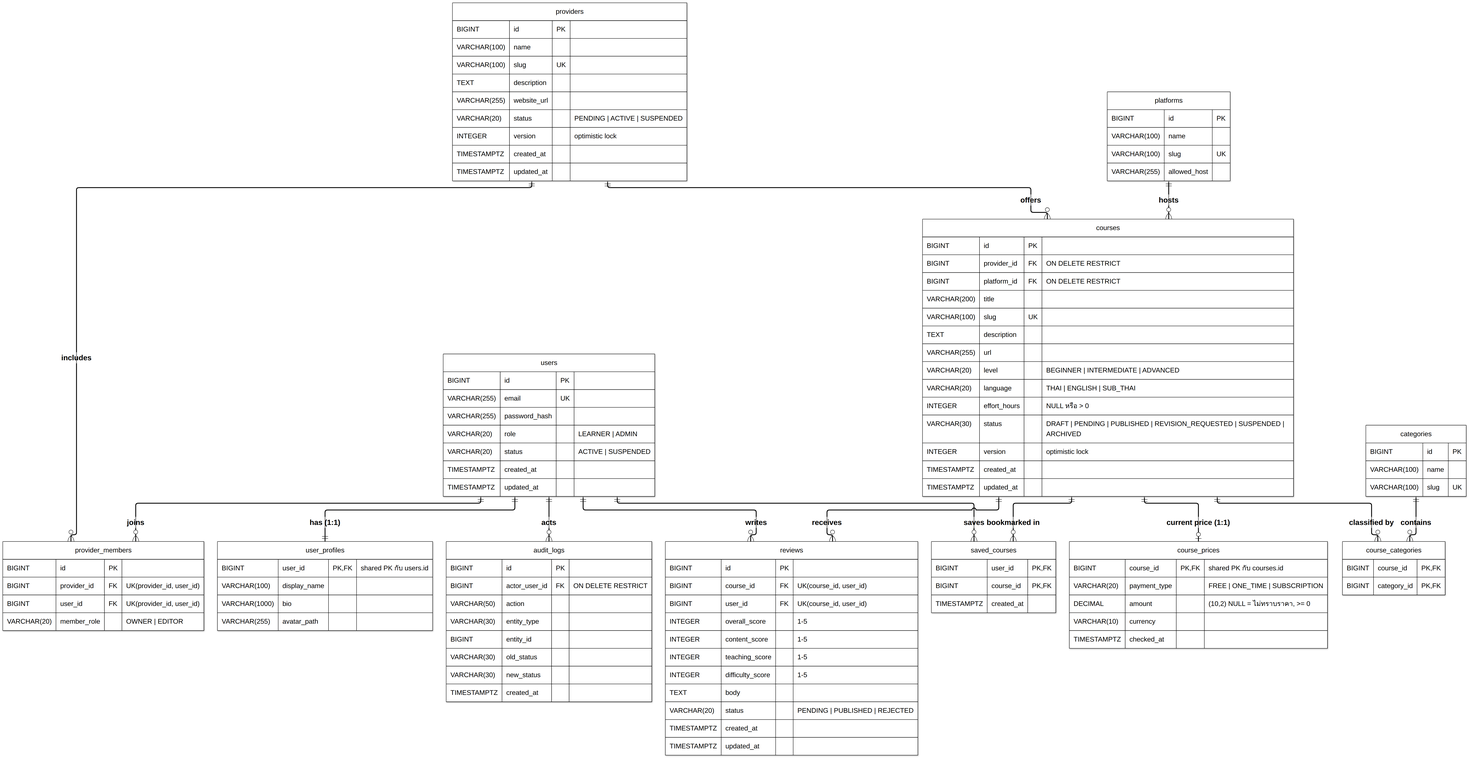
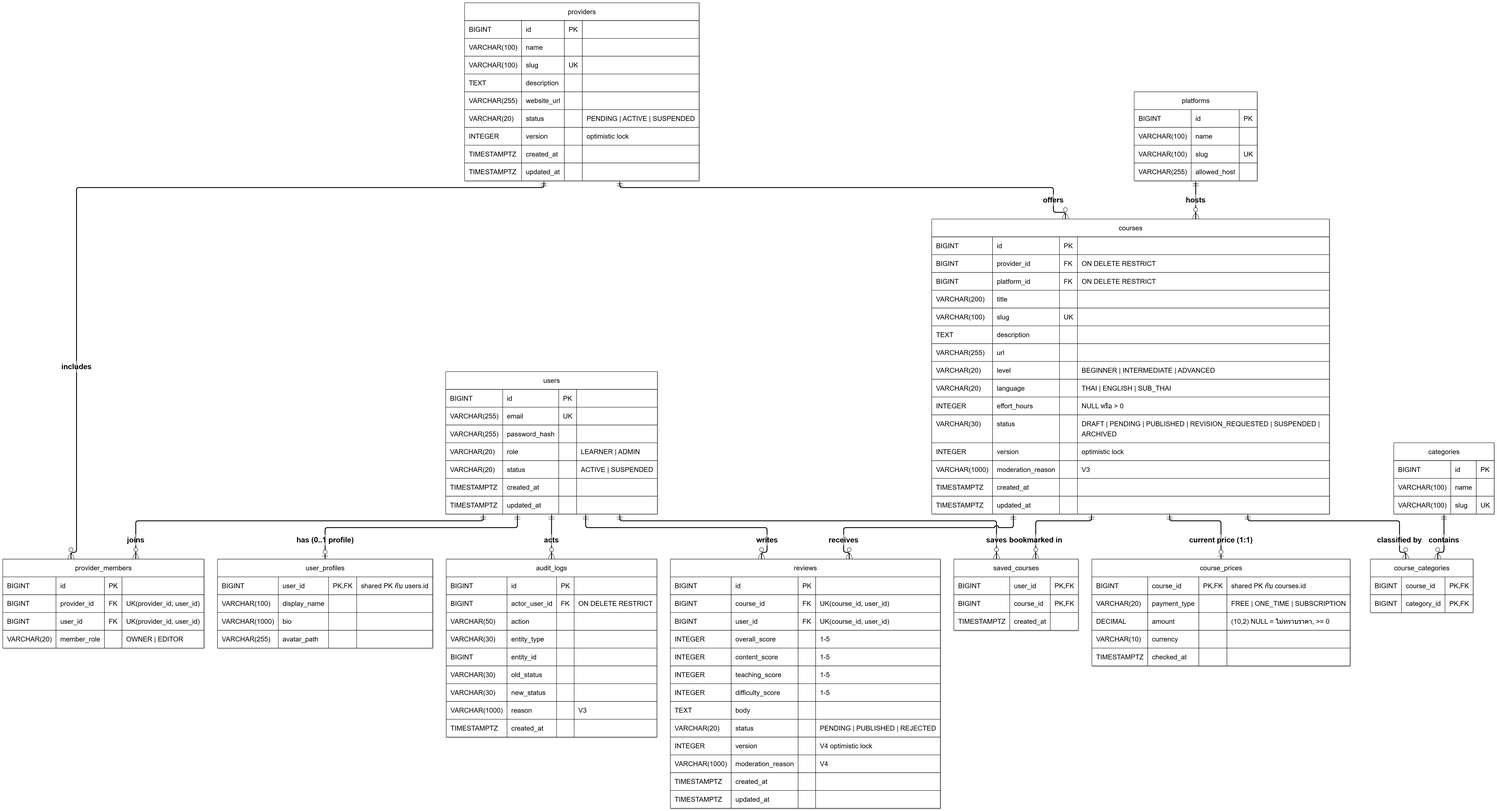
feat(task21): สรุป SOLID และ diagrams ภาพรวมระบบ

diff --git a/doc/requirements.md b/doc/requirements.md
@@ -2,8 +2,8 @@
 
 ตารางนี้แมปข้อกำหนดจากใบงาน CP353002 และ use case ของระบบ เข้ากับ feature, task ในตารางงานทีม, หลักฐานใน repository และเกณฑ์ตรวจรับ
 
-- สถานะอ้างอิง branch `develop` และงานใน branch `keattisak_6733800729_01` ณ วันที่ 5 ตุลาคม 2026
-- อัปเดตหลักฐาน Matcher/GoF วันที่ 6 ตุลาคม 2026 จาก branch `supawat_6733800622_01`: Task 19 backend มีแล้วและรอรวมเข้า develop; Task 20 frontend ยังไม่ทำ
+- สถานะ Task 21 และรายการที่ปรับด้านล่างอ้างอิง branch `sorawit_6733800648_01` ณ วันที่ 8 ตุลาคม 2026; แถวอื่นที่ไม่ได้แก้ยังเป็นบันทึกเดิมจาก branch ก่อนหน้า
+- Matcher backend และ frontend quiz/results มี implementation บน branch นี้ (`CourseMatcherController`, `MatcherPage`, `test/frontend/matcher-flow.test.tsx`)
 - เลข Task ตรงกับตาราง "งานทีม CourseHub • 30 งาน"
 - สถานะ: ✅ มีหลักฐานใน repo แล้ว · 🟡 ทำแล้วบางส่วน · ⬜ ยังไม่เริ่ม
 - ต้องอัปเดตสถานะทุกครั้งที่งานที่เกี่ยวข้อง merge เข้า `develop`
@@ -20,14 +20,14 @@
 | 2 | JUnit 5 + Mockito (+ Spring Boot Test) | ทุก task | `test/backend/unit`, `test/backend/integration` | เทสต์ผ่านใน CI | 🟡 มี JUnit/Spring Boot Test/MockMvc/Testcontainers; Mockito unit test มีใน Course (`CourseServiceImplMockitoTests`) ส่วน feature อื่นยังไม่มี |
 | 2, 11 | Deploy บน Cloud | 07, 23, 25 | Backend: `https://coursehub-backend-ahz2.onrender.com` (Render, Docker) + PostgreSQL บน Neon; Flyway V1–V2 migrate สำเร็จ, `GET /api/v1/system/liveness` ตอบ 200 | public URL ใช้งานได้วันนำเสนอ | 🟡 backend และ DB ใช้งานได้แล้ว ยังไม่มี frontend บน Vercel และยังไม่มี URL ใน README |
 | 3 | Layered Architecture ห้ามข้าม layer | 03 | Controller → Service → Repository ในทุก feature, `doc/decisions/0001-*.md` | ไม่มี Controller เรียก Repository ตรง | ✅ |
-| 4 | SOLID พร้อม `doc/solid-analysis.md` | 21 | ตัวอย่างใน Provider/Course: D — Controller ขึ้นกับ interface `ProviderService`, `CourseQueryService`, `CourseCommandService`; I — แยก Query/Command ของ Course; S — แยก `CourseUrlPolicy`, `CourseMapper`, `ProviderMapper` ออกจาก service | ระบุไฟล์/บรรทัด/เหตุผลครบ 5 ข้อ | 🟡 มีหลักฐานในโค้ดบางส่วน ยังไม่มีเอกสาร |
+| 4 | SOLID พร้อม `doc/solid-analysis.md` | 21 | `doc/solid-analysis.md` อ้าง source/test รายบรรทัดครบ S/O/L/I/D และ contract ของ `ScoringStrategy` | ระบุไฟล์/บรรทัด/เหตุผลครบ 5 ข้อ | ✅ เอกสารและ unit tests ที่เกี่ยวข้องมีหลักฐาน |
 | 5.1 | Layered, MVC, Repository, Service Layer, DTO + Mapper, DI | 03, 21 | `doc/decisions/0001-*.md`, DTO ใน `*/dto/`, Mapper (`CourseMapper`, `ProviderMapper`, `ProfileMapper`), constructor injection | อธิบายใน `doc/design-patterns.md` | 🟡 มีในโค้ด ยังไม่มีเอกสารรวม |
 | 5.2 | GoF กลุ่มเดียว ≥ 3 แบบ (Behavioral: Strategy, State, Observer) | 15, 17, 19 | `doc/design-patterns.md`, `doc/decisions/0003-*.md`, class diagrams และรายงาน Task 15/17/19 | implementation + tests + class diagram | 🟡 ครบหลักฐานใน branch supawat; Task 17/19 รอรวมเข้า develop |
 | 6 | ≥ 6 ตาราง | 06 | `V1__init_schema.sql` (12 ตาราง) | `FlywayMigrationIntegrationTests` | ✅ |
 | 6 | One-to-One | 05, 06 | `users`–`user_profiles`, `courses`–`course_prices` (shared PK) | constraint ทดสอบบน PostgreSQL | ✅ `CourseSchemaPostgresIntegrationTests` |
 | 6 | One-to-Many / Many-to-Many | 06 | `providers`→`courses`, `course_categories` | FK และ cascade ตรงตามออกแบบ | ✅ |
 | 6 | FK, index, cascade/fetch มีเหตุผล | 06 | FK/CHECK/index ใน V1, `@ManyToOne(fetch = LAZY)` | ลบ Provider ที่มีคอร์สไม่ได้, ลบคอร์สแล้ว price/category link หาย | ✅ `CourseSchemaPostgresIntegrationTests` |
-| 6 | ER Diagram + Data Dictionary | 06, 21 | `doc/diagrams/er-diagram.mmd`, `er-diagram.png` | ตรงกับ V1 ทุกตาราง | 🟡 ER ตรงกับ V1 แล้ว Data Dictionary อยู่ใน Task 21 |
+| 6 | ER Diagram + Data Dictionary | 06, 21 | `doc/diagrams/er-diagram.mmd`, `er-diagram.png`, `doc/data-dictionary.md` ตรวจ 12 ตารางกับ Flyway V1–V4 | ตรงกับ migration ทุกตาราง/คอลัมน์ | ✅ เอกสารเทียบ SQL และ render แล้ว; PostgreSQL integration ยังต้องมี Docker |
 | 6 | Migration script | 06 | Flyway `V1__init_schema.sql`, `V2__seed_initial_data.sql` | migrate ฐานข้อมูลว่างได้ | ✅ |
 | 7 | CRUD ≥ 2 resource | 09, 11 | Provider CRUD, Course CRUD | สร้าง/อ่าน/แก้/ลบสำเร็จ และลบที่ต้องห้ามได้ 409 | ✅ |
 | 7 | HTTP status ถูกต้อง (200/201/204/400/404/409/500) | 08, 09, 11 | `GlobalExceptionHandler`, `doc/api-contract.md` | MockMvc tests ตรวจ status | ✅ |
@@ -38,7 +38,7 @@
 | 8 | Branch ชื่อ_รหัส_section, PR มี reviewer | ทุกคน | branch `*_67338007xx_01`, PR บน GitHub | PR ทุกอันมี reviewer ≥ 1 | ✅ |
 | 9 | โฟลเดอร์ `code/`, `test/`, `doc/`, `img/` | 07 | root ของ repo, test ถูกค้นจาก `test/` ผ่าน `build-helper-maven-plugin` | CI รันเทสต์จาก `test/` | ✅ |
 | 9.1 | Use Case Diagram + Description | 02 | `doc/diagrams/use-case-diagram.png`, `doc/Use Case Descriptions.md` | ครบทุก actor | ✅ |
-| 9.1 | Class, Sequence ≥ 3, Activity, Component, Deployment, State | 21 | — | ไฟล์ใน `doc/diagrams/` | ⬜ |
+| 9.1 | Class, Sequence ≥ 3, Activity, Component, Deployment, State | 21 | `doc/diagrams/` มี diagram แยกตาม feature, activity, component, deployment, state; Mermaid render ได้ | ไฟล์ใน `doc/diagrams/` | ✅ |
 | 10 | README ครบหัวข้อ | 01, 28 | `README.md` | ครบตามใบงานข้อ 10 | 🟡 ยังขาดคอลัมน์ Section, Tech Stack, Architecture, Deployment URL, Project Structure |
 | 11 | Dockerfile + docker-compose.yml | 07, 25 | `code/backend/Dockerfile`, `docker-compose.yml` | `docker compose up` รัน DB + backend ได้ | 🟡 compose ยังไม่มี frontend |
 | 11 | CI/CD (คะแนนพิเศษ) | 26 | `.github/workflows/ci.yml` | Build → Test ผ่านทุก PR, Deploy อัตโนมัติ | 🟡 มี Build/Test ยังไม่มี Deploy |
@@ -51,7 +51,7 @@
 | Use case | Feature / API หลัก | Task | หลักฐาน | สถานะ |
 | --- | --- | --- | --- | :---: |
 | UC01 ค้นหา กรอง เปรียบเทียบคอร์ส | `GET /api/v1/courses`, `/catalog/categories`, `/catalog/platforms` | 12 | `CatalogController`, `CatalogPage.tsx`, `CatalogCourseIntegrationTests` | ✅ |
-| UC02 Course Matcher Quiz | `POST /api/v1/course-matches` | 19, 20 | `CourseMatcherController`, `ScoringStrategyContractTests`, `CourseMatcherPostgresIntegrationTests`, `doc/task19-matcher-guide.md` | 🟡 Task 19 backend ผ่าน tests ใน branch supawat; Task 20 quiz/results UI ยังไม่ทำ |
+| UC02 Course Matcher Quiz | `POST /api/v1/course-matches` | 19, 20 | `CourseMatcherController`, `MatcherPage`, `ScoringStrategyContractTests`, `test/frontend/matcher-flow.test.tsx` | ✅ backend/frontend และ unit/UI tests มีใน branch; PostgreSQL/E2E ต้องมี Docker |
 | UC03 Career Roadmap | — | หลังส่งวิชา | — | ⬜ ไม่อยู่ในขอบเขตรอบส่งวิชา |
 | UC04 สมัครสมาชิก / เข้าสู่ระบบ | `/api/v1/auth/*` | 05 | `AuthController`, `LoginPage.tsx`, `RegisterPage.tsx`, `AuthControllerIntegrationTests` | ✅ |
 | UC05 จัดการโปรไฟล์ | `GET/PUT /api/v1/me/profile` | 05 | `ProfileController`, `ProfilePage.tsx` | ✅ |
@@ -64,8 +64,8 @@
 | UC12 สร้าง/แก้ไขคอร์สดราฟต์ | `POST /providers/{id}/courses`, `PUT /courses/{id}` | 11 | `CourseServiceImpl`, `CourseManagementSection.tsx` | ✅ |
 | UC13 ส่งคอร์สเข้าตรวจ | `POST /api/v1/courses/{id}/submissions` | 11 | `CourseServiceImpl.submitCourse` (Provider ต้อง ACTIVE) | ✅ |
 | UC14 ลบคอร์ส | `DELETE /api/v1/courses/{id}` | 11 | `CourseServiceImpl.deleteCourse` (เฉพาะ DRAFT ที่ไม่เคยเผยแพร่และไม่มีรีวิว) | ✅ |
-| UC15 Admin ตรวจและอนุมัติคอร์ส | `POST /api/v1/admin/courses/{id}/moderation-decisions` | 15 | — | ⬜ |
-| UC16 Admin รับรอง Provider | — | 15 | — | ⬜ |
+| UC15 Admin ตรวจและอนุมัติคอร์ส | `POST /api/v1/admin/courses/{id}/moderation-decisions` | 15 | `CourseModerationServiceImpl`, `CourseWorkflow`, `AdminModerationControllerTests` | ✅ |
+| UC16 Admin รับรอง Provider | `POST /api/v1/admin/providers/{id}/verification-decisions` | 15 | `ProviderVerificationServiceImpl`, `AdminModerationControllerTests` | ✅ |
 | UC17 Admin ตรวจรีวิว | `GET /api/v1/admin/reviews`, `POST /api/v1/admin/reviews/{id}/moderation-decisions` | 16 | `AdminReviewModerationController`, `ReviewModerationSection`, `AdminReviewModerationControllerTests` | ✅ |
 | UC18 จัดการหมวดหมู่ | — | — | seed หมวดหมู่ใน V2 | ⬜ |
 | UC19 ดู Audit Log | — | 17 | ตาราง `audit_logs` มีข้อมูลจาก Provider/Course แล้ว | 🟡 บันทึกแล้ว ยังไม่มีหน้าดู |

diff --git a/doc/solid-analysis.md b/doc/solid-analysis.md
@@ -1,0 +1,34 @@
+# SOLID analysis — Task 21
+
+วิเคราะห์จาก implementation บน branch `sorawit_6733800648_01` ณ 8 ตุลาคม 2026. เลขบรรทัดอ้างอิง source ปัจจุบันใน `code/backend`; เอกสารนี้อธิบายตัวอย่างที่พิสูจน์ได้ ไม่ได้อ้างว่าทุก class ในระบบทำตามทุกหลักสมบูรณ์. งาน Task 21 ไม่ต้องเปลี่ยน API หรือ schema เพื่อให้ diagram สมบูรณ์.
+
+## S — Single Responsibility Principle
+
+- [`CourseServiceImpl.java:45`](../code/backend/src/main/java/com/example/courserecommend/course/CourseServiceImpl.java#L45) ฉีด `CourseUrlPolicy` และ [`CourseServiceImpl.java:65`](../code/backend/src/main/java/com/example/courserecommend/course/CourseServiceImpl.java#L65) เรียกตรวจ host/HTTPS; กฎ URL อยู่ใน [`CourseUrlPolicy.java:17`](../code/backend/src/main/java/com/example/courserecommend/course/CourseUrlPolicy.java#L17). การเปลี่ยนกฎ URL จึงอยู่ใน class นั้น แยกจาก orchestration การสร้าง/แก้คอร์ส.
+- [`CourseServiceImpl.java:46`](../code/backend/src/main/java/com/example/courserecommend/course/CourseServiceImpl.java#L46) ใช้ `CourseMapper`; [`CourseMapper.java:18`](../code/backend/src/main/java/com/example/courserecommend/course/CourseMapper.java#L18) รับผิดชอบแปลง entity เป็น DTO. หลักฐาน: [`CourseUrlPolicyTests.java:17`](../test/backend/unit/com/example/courserecommend/course/CourseUrlPolicyTests.java#L17) และ [`CourseMapperTests.java:22`](../test/backend/unit/com/example/courserecommend/course/CourseMapperTests.java#L22) ทดสอบกฎ/การแปลงแยกกัน; `CourseServiceImplMockitoTests` ครอบ flow ของ service.
+
+## O — Open/Closed Principle
+
+- [`ScoringStrategy.java:4`](../code/backend/src/main/java/com/example/courserecommend/matcher/scoring/ScoringStrategy.java#L4) กำหนด `key()`/`score(ScoringInput)`; [`CourseMatcherService.java:41`](../code/backend/src/main/java/com/example/courserecommend/matcher/CourseMatcherService.java#L41) รับ `List<ScoringStrategy>` ทาง constructor และ [`CourseMatcherService.java:47`](../code/backend/src/main/java/com/example/courserecommend/matcher/CourseMatcherService.java#L47) ตรวจ key ไม่ซ้ำก่อนเรียงลำดับ. [`CourseMatcherService.java:98`](../code/backend/src/main/java/com/example/courserecommend/matcher/CourseMatcherService.java#L98) เรียกทุก strategy โดยไม่ switch ชนิด concrete. เพิ่มวิธีคิดคะแนนใหม่ได้ด้วย implementation ของ interface และ bean ใหม่ โดยไม่แก้ loop จัดอันดับ.
+- ตัวอย่าง extension ที่มีจริง: [`BudgetFitStrategy.java:9`](../code/backend/src/main/java/com/example/courserecommend/matcher/scoring/BudgetFitStrategy.java#L9), [`EffortFitStrategy.java:7`](../code/backend/src/main/java/com/example/courserecommend/matcher/scoring/EffortFitStrategy.java#L7), [`ReviewQualityStrategy.java:9`](../code/backend/src/main/java/com/example/courserecommend/matcher/scoring/ReviewQualityStrategy.java#L9). หลักฐาน: [`CourseMatcherServiceTests.java:35`](../test/backend/unit/com/example/courserecommend/matcher/CourseMatcherServiceTests.java#L35) สร้าง service ด้วยทั้งสาม implementation และตรวจลำดับ breakdown, top 3, hard filter.
+
+## L — Liskov Substitution Principle
+
+- **Contract ก่อนแทนที่:** [`ScoringInput.java:13`](../code/backend/src/main/java/com/example/courserecommend/matcher/scoring/ScoringInput.java#L13) บังคับราคา THB ที่ทราบและไม่เกินงบ, ชั่วโมงในช่วง 1–168, effort เป็นบวกเมื่อมีค่า, rating/count สอดคล้องกัน; input นี้สร้างหลัง [`EligibilityPolicy.java:16`](../code/backend/src/main/java/com/example/courserecommend/matcher/EligibilityPolicy.java#L16) กรอง hard constraints. [`ScoringStrategy.java:4`](../code/backend/src/main/java/com/example/courserecommend/matcher/scoring/ScoringStrategy.java#L4) ให้ทุก implementation รับ input แบบเดียวกัน. [`ScoringResult.java:6`](../code/backend/src/main/java/com/example/courserecommend/matcher/scoring/ScoringResult.java#L6) ปฏิเสธ key ว่าง, score ไม่ finite/นอก 0–100 และ reason ว่าง; matcher ใช้ key, score และ reason เหมือนกันทุกตัว.
+- **การแทนกันได้จริง:** [`CourseMatcherService.java:98`](../code/backend/src/main/java/com/example/courserecommend/matcher/CourseMatcherService.java#L98) เรียก `strategy.score(input)` ใน loop เดียว แล้วเฉลี่ยผลโดยไม่ตรวจ concrete type. [`ScoringStrategyContractTests.java:23`](../test/backend/unit/com/example/courserecommend/matcher/ScoringStrategyContractTests.java#L23) parameterize `BudgetFitStrategy`, `EffortFitStrategy`, `ReviewQualityStrategy` บนชุด input เดียวกัน และยืนยัน deterministic result, key ตรง strategy, คะแนน finite 0–100, reason มีข้อมูล. [`ScoringStrategyContractTests.java:70`](../test/backend/unit/com/example/courserecommend/matcher/ScoringStrategyContractTests.java#L70) ทดสอบการปฏิเสธ input/output ผิด contract. จึงมีหลักฐานมากกว่าเพียงการ `implements` interface.
+- ขอบเขต contract คือ **eligible snapshot** เท่านั้น; เช่น budget strategy ต้องไม่รับ paid course ที่ราคาเกินงบ. ไม่มีข้อสรุปว่า implementation ใช้แทนกันได้บน input ที่ฝ่าฝืน precondition.
+
+## I — Interface Segregation Principle
+
+- [`CourseQueryService.java:10`](../code/backend/src/main/java/com/example/courserecommend/course/CourseQueryService.java#L10) แยก `getCourse`/`listCoursesByProvider`; [`CourseCommandService.java:10`](../code/backend/src/main/java/com/example/courserecommend/course/CourseCommandService.java#L10) แยก create/update/submit/delete. [`CourseController.java:20`](../code/backend/src/main/java/com/example/courserecommend/course/CourseController.java#L20) ระบุ dependency สอง interface ตามการใช้งาน; [`CourseServiceImpl.java:35`](../code/backend/src/main/java/com/example/courserecommend/course/CourseServiceImpl.java#L35) implement ทั้งคู่. ผู้ใช้ที่ต้องอ่านอย่างเดียวสามารถขึ้นกับ query contract โดยไม่ต้องรับ mutation contract.
+- หลักฐาน: [`CourseControllerTests.java:67`](../test/backend/unit/com/example/courserecommend/course/CourseControllerTests.java#L67) เป็นต้นไปทดสอบ endpoint การอ่าน/เขียนและสิทธิ์; `CourseServiceTests`/`CourseServiceImplMockitoTests` ตรวจพฤติกรรมของ implementation. การแยก interface ยังไม่ได้แยก runtime class หรือ transaction boundary ซึ่งไม่ใช่ข้อสรุปของหลักนี้.
+
+## D — Dependency Inversion Principle
+
+- [`ProviderController.java:30`](../code/backend/src/main/java/com/example/courserecommend/provider/ProviderController.java#L30) ขึ้นกับ [`ProviderService.java:13`](../code/backend/src/main/java/com/example/courserecommend/provider/ProviderService.java#L13) แทน concrete [`ProviderServiceImpl.java:31`](../code/backend/src/main/java/com/example/courserecommend/provider/ProviderServiceImpl.java#L31). Course controller ขึ้นกับ query/command interfaces ที่บรรทัด 20–21 ข้างต้น. Spring constructor injection ผูก implementation ที่ runtime.
+- ฝั่ง moderation, [`CourseModerationServiceImpl.java:30`](../code/backend/src/main/java/com/example/courserecommend/course/CourseModerationServiceImpl.java#L30) ขึ้นกับ [`AdminActorResolver.java:5`](../code/backend/src/main/java/com/example/courserecommend/security/AdminActorResolver.java#L5); [`SecurityContextAdminActorResolver.java:14`](../code/backend/src/main/java/com/example/courserecommend/security/SecurityContextAdminActorResolver.java#L14) เป็น implementation ที่อ่าน security context. หลักฐาน: `ProviderControllerTests`, `CourseControllerTests`, `AdminModerationControllerTests` รันผ่านกับ wiring จริง; [`CourseMatcherServiceTests.java:25`](../test/backend/unit/com/example/courserecommend/matcher/CourseMatcherServiceTests.java#L25) ฉีด repository mocks และ strategy implementations เข้า constructor ได้โดยไม่แก้ service.
+- ขอบเขต: บาง service ยังขึ้นกับ concrete helper/service เช่น `CatalogCourseService`; จึงอ้าง DIP สำหรับ boundary ที่ระบุไว้ ไม่เหมารวมทั้งระบบ.
+
+## หลักฐานการรันในงานนี้
+
+ก่อน commit ตาม feature ได้รัน test ของ auth/profile, provider/member, course/moderation และ matcher ผ่าน. ชุด catalog/bookmark/review ที่ใช้ Testcontainers PostgreSQL เริ่มไม่ได้เพราะไม่พบ Docker environment บนเครื่องนี้; `CatalogMetadataIntegrationTests` กับ `AdminReviewModerationControllerTests` ที่ใช้ H2 ผ่าน. ผล `mvn verify`, frontend test/build และ E2E หลัง commit ที่ 6 ระบุในสรุปการส่งงานตามผลจริง.

diff --git a/doc/data-dictionary.md b/doc/data-dictionary.md
@@ -1,0 +1,152 @@
+# Data Dictionary — CourseHub
+
+แหล่งอ้างอิงคือ `code/backend/src/main/resources/db/migration/V1__init_schema.sql` ถึง `V4__review_moderation.sql` ณ 8 ตุลาคม 2026. `V2` เพิ่มข้อมูลตั้งต้น ไม่เพิ่มตารางหรือคอลัมน์. คำว่า nullable/default ด้านล่างอ้าง SQL migration โดยตรง; การตรวจค่าบางอย่างใน Java อาจเข้มกว่า SQL.
+
+## users
+
+| คอลัมน์ | ชนิด | ข้อกำหนด |
+| --- | --- | --- |
+| id | BIGSERIAL | PK |
+| email | VARCHAR(255) | NOT NULL, UNIQUE |
+| password_hash | VARCHAR(255) | NOT NULL |
+| role | VARCHAR(20) | NOT NULL, DEFAULT `LEARNER`, CHECK `LEARNER/ADMIN` |
+| status | VARCHAR(20) | NOT NULL, DEFAULT `ACTIVE`, CHECK `ACTIVE/SUSPENDED` |
+| created_at, updated_at | TIMESTAMPTZ | DEFAULT `CURRENT_TIMESTAMP`; SQL อนุญาต NULL |
+
+## user_profiles
+
+| คอลัมน์ | ชนิด | ข้อกำหนด |
+| --- | --- | --- |
+| user_id | BIGINT | PK, FK → `users.id`, ON DELETE CASCADE; shared PK |
+| display_name | VARCHAR(100) | NOT NULL |
+| bio | VARCHAR(1000) | nullable |
+| avatar_path | VARCHAR(255) | nullable; มีใน schema แต่ยังไม่มี API แก้ avatar |
+
+## providers
+
+| คอลัมน์ | ชนิด | ข้อกำหนด |
+| --- | --- | --- |
+| id | BIGSERIAL | PK |
+| name | VARCHAR(100) | NOT NULL |
+| slug | VARCHAR(100) | NOT NULL, UNIQUE |
+| description | TEXT | nullable |
+| website_url | VARCHAR(255) | nullable |
+| status | VARCHAR(20) | NOT NULL, DEFAULT `PENDING`, CHECK `PENDING/ACTIVE/SUSPENDED` |
+| version | INTEGER | NOT NULL, DEFAULT 0; optimistic lock ใน entity |
+| created_at, updated_at | TIMESTAMPTZ | DEFAULT `CURRENT_TIMESTAMP`; SQL อนุญาต NULL |
+
+## provider_members
+
+| คอลัมน์ | ชนิด | ข้อกำหนด |
+| --- | --- | --- |
+| id | BIGSERIAL | PK |
+| provider_id | BIGINT | NOT NULL, FK → `providers.id`, ON DELETE CASCADE |
+| user_id | BIGINT | NOT NULL, FK → `users.id`, ON DELETE CASCADE |
+| member_role | VARCHAR(20) | NOT NULL, DEFAULT `EDITOR`, CHECK `OWNER/EDITOR` |
+
+UNIQUE (`provider_id`, `user_id`) ชื่อ `uq_provider_member`.
+
+## platforms
+
+| คอลัมน์ | ชนิด | ข้อกำหนด |
+| --- | --- | --- |
+| id | BIGSERIAL | PK |
+| name | VARCHAR(100) | NOT NULL |
+| slug | VARCHAR(100) | NOT NULL, UNIQUE |
+| allowed_host | VARCHAR(255) | NOT NULL; ใช้ตรวจ URL คอร์ส |
+
+## courses
+
+| คอลัมน์ | ชนิด | ข้อกำหนด |
+| --- | --- | --- |
+| id | BIGSERIAL | PK |
+| provider_id | BIGINT | NOT NULL, FK → `providers.id`, ON DELETE RESTRICT |
+| platform_id | BIGINT | NOT NULL, FK → `platforms.id`, ON DELETE RESTRICT |
+| title | VARCHAR(200) | NOT NULL |
+| slug | VARCHAR(100) | NOT NULL, UNIQUE |
+| description | TEXT | nullable |
+| url | VARCHAR(255) | NOT NULL |
+| level | VARCHAR(20) | NOT NULL, DEFAULT `BEGINNER`, CHECK `BEGINNER/INTERMEDIATE/ADVANCED` |
+| language | VARCHAR(20) | NOT NULL, DEFAULT `THAI`, CHECK `THAI/ENGLISH/SUB_THAI` |
+| effort_hours | INTEGER | nullable; CHECK NULL หรือ > 0 |
+| status | VARCHAR(30) | NOT NULL, DEFAULT `DRAFT`, CHECK `DRAFT/PENDING/PUBLISHED/REVISION_REQUESTED/SUSPENDED/ARCHIVED` |
+| version | INTEGER | NOT NULL, DEFAULT 0; optimistic lock |
+| moderation_reason | VARCHAR(1000) | nullable; เพิ่มใน V3 |
+| created_at, updated_at | TIMESTAMPTZ | DEFAULT `CURRENT_TIMESTAMP`; SQL อนุญาต NULL |
+
+## course_prices
+
+| คอลัมน์ | ชนิด | ข้อกำหนด |
+| --- | --- | --- |
+| course_id | BIGINT | PK, FK → `courses.id`, ON DELETE CASCADE; shared PK |
+| payment_type | VARCHAR(20) | NOT NULL, DEFAULT `FREE`, CHECK `FREE/ONE_TIME/SUBSCRIPTION` |
+| amount | DECIMAL(10,2) | nullable; CHECK NULL หรือ ≥ 0 |
+| currency | VARCHAR(10) | nullable, DEFAULT `THB` |
+| checked_at | TIMESTAMPTZ | nullable, DEFAULT `CURRENT_TIMESTAMP` |
+
+## categories
+
+| คอลัมน์ | ชนิด | ข้อกำหนด |
+| --- | --- | --- |
+| id | BIGSERIAL | PK |
+| name | VARCHAR(100) | NOT NULL |
+| slug | VARCHAR(100) | NOT NULL, UNIQUE |
+
+## course_categories
+
+| คอลัมน์ | ชนิด | ข้อกำหนด |
+| --- | --- | --- |
+| course_id | BIGINT | PK ส่วนที่ 1, NOT NULL, FK → `courses.id`, ON DELETE CASCADE |
+| category_id | BIGINT | PK ส่วนที่ 2, NOT NULL, FK → `categories.id`, ON DELETE CASCADE |
+
+## reviews
+
+| คอลัมน์ | ชนิด | ข้อกำหนด |
+| --- | --- | --- |
+| id | BIGSERIAL | PK |
+| course_id | BIGINT | NOT NULL, FK → `courses.id`, ON DELETE CASCADE |
+| user_id | BIGINT | NOT NULL, FK → `users.id`, ON DELETE CASCADE |
+| overall_score, content_score, teaching_score, difficulty_score | INTEGER | แต่ละคอลัมน์ NOT NULL, CHECK 1–5 |
+| body | TEXT | nullable |
+| status | VARCHAR(20) | NOT NULL, DEFAULT `PENDING`, CHECK `PENDING/PUBLISHED/REJECTED` |
+| version | INTEGER | NOT NULL, DEFAULT 0; เพิ่มใน V4 เพื่อ optimistic lock |
+| moderation_reason | VARCHAR(1000) | nullable; เพิ่มใน V4 |
+| created_at, updated_at | TIMESTAMPTZ | DEFAULT `CURRENT_TIMESTAMP`; SQL อนุญาต NULL |
+
+UNIQUE (`course_id`, `user_id`) ชื่อ `uq_course_user_review`; ผู้ใช้มีหนึ่งรีวิวต่อคอร์สและแก้รีวิวเดิมได้.
+
+## saved_courses
+
+| คอลัมน์ | ชนิด | ข้อกำหนด |
+| --- | --- | --- |
+| user_id | BIGINT | PK ส่วนที่ 1, NOT NULL, FK → `users.id`, ON DELETE CASCADE |
+| course_id | BIGINT | PK ส่วนที่ 2, NOT NULL, FK → `courses.id`, ON DELETE CASCADE |
+| created_at | TIMESTAMPTZ | nullable, DEFAULT `CURRENT_TIMESTAMP` |
+
+## audit_logs
+
+| คอลัมน์ | ชนิด | ข้อกำหนด |
+| --- | --- | --- |
+| id | BIGSERIAL | PK |
+| actor_user_id | BIGINT | NOT NULL, FK → `users.id`, ON DELETE RESTRICT |
+| action | VARCHAR(50) | NOT NULL |
+| entity_type | VARCHAR(30) | NOT NULL |
+| entity_id | BIGINT | NOT NULL; polymorphic reference, ไม่มี FK |
+| old_status, new_status | VARCHAR(30) | nullable |
+| reason | VARCHAR(1000) | nullable; เพิ่มใน V3 |
+| created_at | TIMESTAMPTZ | nullable, DEFAULT `CURRENT_TIMESTAMP` |
+
+## Indexes จาก Flyway
+
+| ชื่อ | ตาราง | คอลัมน์ |
+| --- | --- | --- |
+| idx_courses_provider_status | courses | provider_id, status |
+| idx_courses_catalog | courses | status, created_at, id |
+| idx_reviews_course_status | reviews | course_id, status |
+| idx_provider_members_user | provider_members | user_id |
+| idx_course_categories_cat_course | course_categories | category_id, course_id |
+| idx_saved_courses_user_created | saved_courses | user_id, created_at |
+| idx_audit_logs_lookup | audit_logs | entity_type, entity_id, created_at |
+| idx_reviews_status_created | reviews | status, created_at DESC, id DESC (V4) |
+
+PK/UNIQUE อาจสร้างดัชนีเพิ่มเติมโดย PostgreSQL. ความสัมพันธ์ทั้ง 12 ตารางแสดงใน `doc/diagrams/er-diagram.mmd`.
